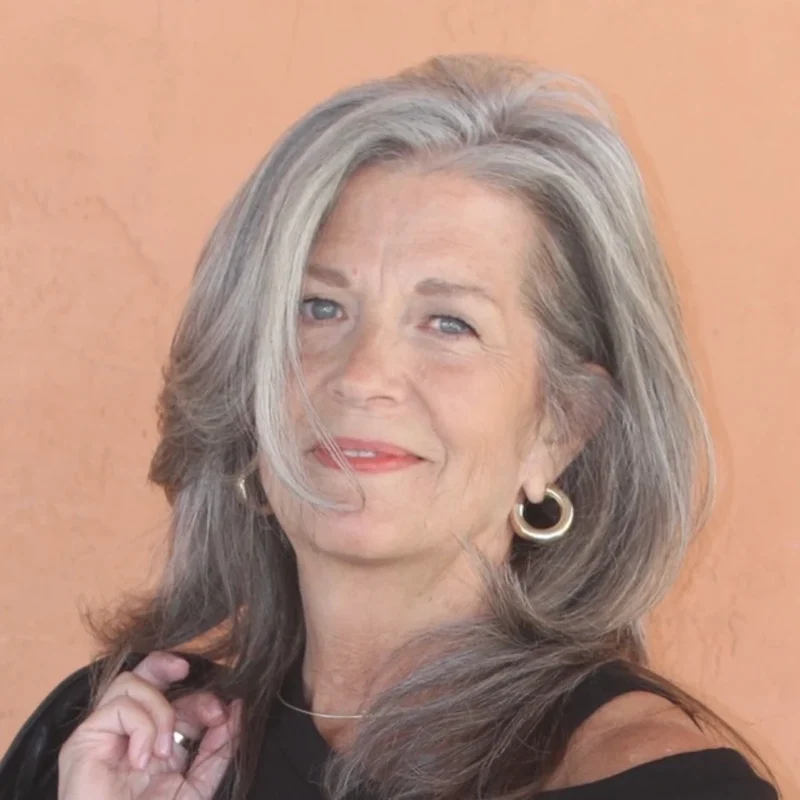
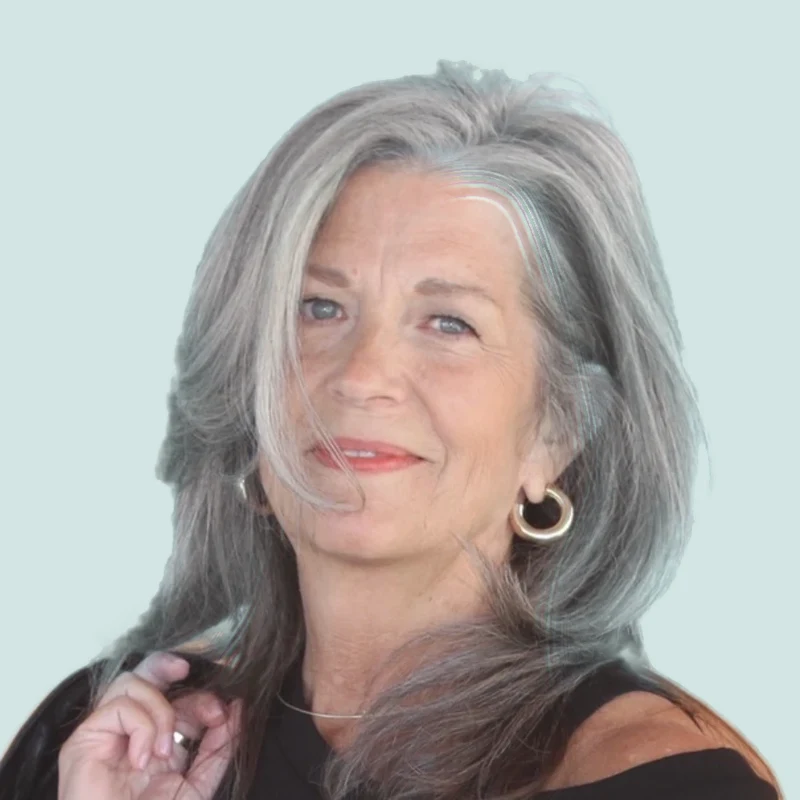
About page: portrait background matched to site's pale teal

diff --git a/about/index.html b/about/index.html
@@ -73,7 +73,7 @@
   <section style="padding-top: 16px;">
     <div class="container">
       <div class="about-me-card">
-        <img class="portrait" src="/julielichty-com/assets/images/julie-lichty-portrait-ig.webp" alt="Julie Lichty, executive coach and speaker" />
+        <img class="portrait" src="/julielichty-com/assets/images/julie-lichty-portrait-ig.webp?v=2" alt="Julie Lichty, executive coach and speaker" />
         <h2 class="section-label">ABOUT ME</h2>
         <p>My background includes a B.S. in Psychology/Business and a series of successful leadership roles within a multi-million dollar conglomerate. During my corporate career I gained experience in all facets of business as well as exceptional personal and professional development skills.</p>
         <p>After years in that world, I was ready for a significant change; I wanted more. My career pivot led to the launch of my business. Today I continue to successfully <a href="/julielichty-com/coaching/">partner with a wide range of clients</a> who feel the pull to discover and implement their version of more; something different, something better, something uniquely meant for them.</p>
